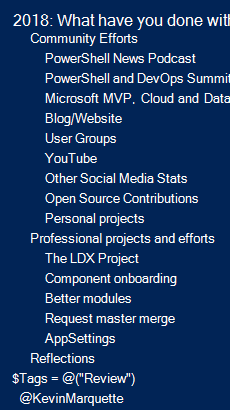
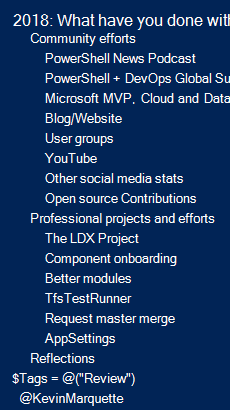
update link and fix headings

diff --git a/_posts/2019-01-01-Powershell-2018-year-in-review.md b/_posts/2019-01-01-Powershell-2018-year-in-review.md
@@ -6,7 +6,7 @@ tags: [Review]
 share-img: "/img/share-img/2019-01-01-Powershell-2018-year-in-review.png"
 ---
 
-Over on [/r/PowerShell](https://www.reddit.com/r/PowerShell), we share with each other everything that we have done with PowerShell every month and reflect on that at the end of the year. This has been a big year for me. Not only have I been able to work on some great projects professionally, I also received a lot of recognition this year for my community efforts. As I reflect back on this year, I accomplished way more than I expected.
+Over on [/r/PowerShell](https://www.reddit.com/r/PowerShell/comments/abodo7/2018_retrospection_what_have_you_done_with), we share with each other everything that we have done with PowerShell every month and reflect on that at the end of the year. This has been a big year for me. Not only have I been able to work on some great projects professionally, I also received a lot of recognition this year for my community efforts. As I reflect back on this year, I accomplished way more than I expected.
 <!--more-->
 # Index
 
@@ -107,7 +107,7 @@ I picked up 883 new [Twitter](https://twitter.com/KevinMarquette) followers this
 
 I participated in [Hacktoberfest](https://hacktoberfest.digitalocean.com/) this year and got my needed pull requests out to other projects. I did get around 10 pull requests last year to the PowerShell repositories but most of my changes there were adding or cleaning up tests.
 
-## Personal projects
+### Personal projects
 
 I created these utility functions this year.
 
@@ -159,7 +159,7 @@ The work I did on the F5 module and related tooling this year was significant.
 
 This enabled zero downtime and rolling release scenarios that we were not leveraging before.
 
-### TfsTestRunner
+## TfsTestRunner
 
 I created a module and tooling for running various integration tests at deploy time for every release into every environment. This was paired with my zero downtime release scenarios to allow failed tests to halt the deployment before it would impact production.
 
